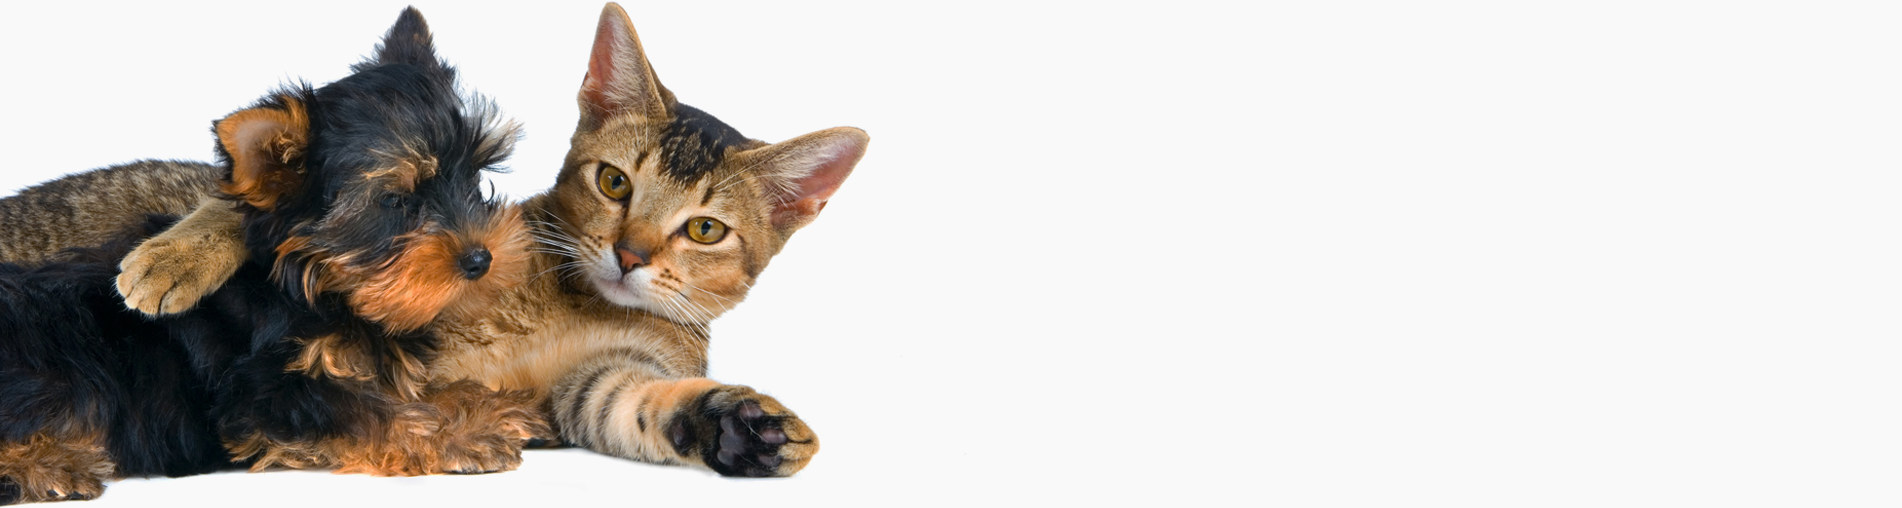
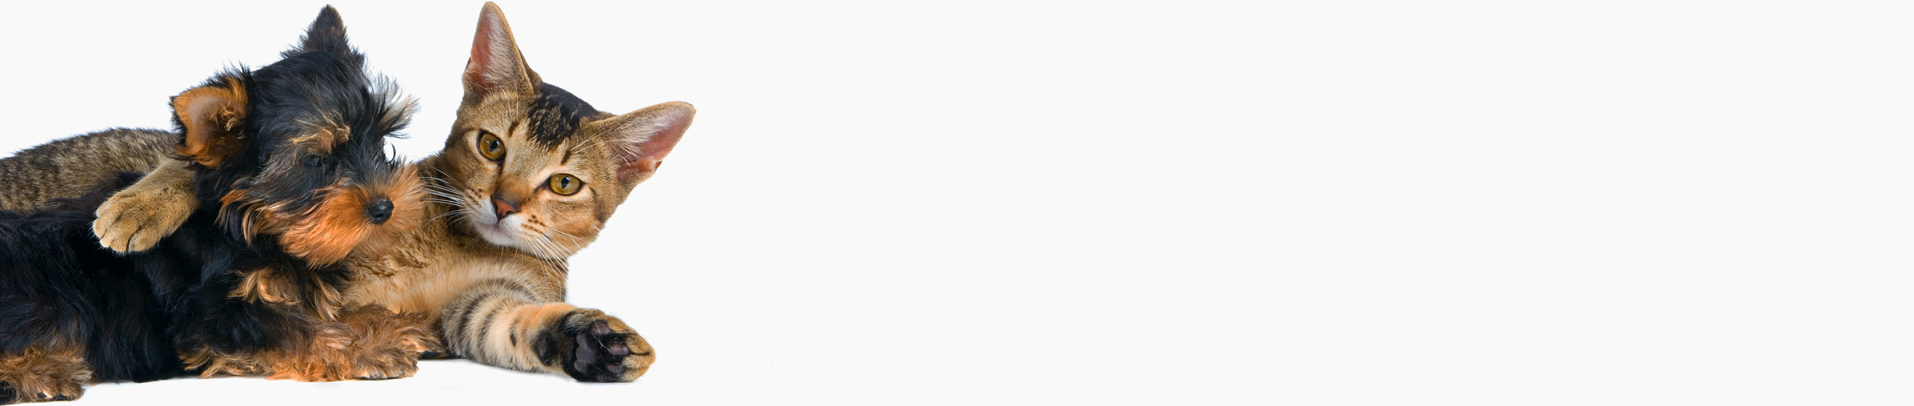
entrega final 30/03

Changed region(s): [[0.0, 0.0, 0.4653, 1.0]]

diff --git a/index.html b/index.html
@@ -105,34 +105,36 @@
     </div>
     
     <footer>
-      <div>
-        <h3>Redes sociales</h3>
-            <ul>
-                <li>
-                  <a href="https://api.whatsapp.com/send?phone=+1167313204&text=Hola%20%F0%9F%91%8B!%20Te%20estas%20comunicando%20con%20Pet%20Shop%20FRANCO%F0%9F%90%95.%20En%20que%20podemos%20ayudarte?"><img src="/img/wsp.png" alt="wsp"></a>
-                </li>
-                <li>
-                    <a href="https://www.instagram.com/pet_shop_franco/?hl=es"><img src="/img/inst.png" alt="inst"></a>
+     
+        <div>
+          <h3>Redes sociales</h3>
+              <ul>
+                  <li>
+                    <a href="https://api.whatsapp.com/send?phone=+1167313204&text=Hola%20%F0%9F%91%8B!%20Te%20estas%20comunicando%20con%20Pet%20Shop%20FRANCO%F0%9F%90%95.%20En%20que%20podemos%20ayudarte?"><img src="/img/wsp.png" alt="wsp"></a>
                   </li>
-                  <li>	
-                    <a href="https://www.facebook.com/Petshop-franco-101898965339682"><img src="/img/fb.png" alt="fb"></a>
-                </li>
-            </ul>
-        </div>    
-                <div>
-                    <h3>Contacto</h3>
-                    <ul>
-                      <li>
-                        <a href="mailto:franco-petshop@gmail.com">franco-petshop@gmail.com</a>
-                      </li>
-                      <li>1121903779</li>
-                      <li>Rio de janeiro 300</a></li>
-                  </ul>
+                  <li>
+                      <a href="https://www.instagram.com/pet_shop_franco/?hl=es"><img src="/img/inst.png" alt="inst"></a>
+                    </li>
+                    <li>	
+                      <a href="https://www.facebook.com/Petshop-franco-101898965339682"><img src="/img/fb.png" alt="fb"></a>
+                  </li>
+              </ul>
+          </div>    
+                  <div>
+                      <h3>Contacto</h3>
+                      <ul>
+                        <li>
+                          <a href="mailto:franco-petshop@gmail.com">franco-petshop@gmail.com</a>
+                        </li>
+                        <li>Telefono :1121903779</li>
+                        <li>Direccion: Rio de janeiro 300 (Caballito)</a></li>
+                    </ul>
+                  </div>
+                  <div>
+                    <img src="/img/FRANCOlogo.png">
+                    <p>&copy;Derechos Reservados2021</p>
                 </div>
-                <div>
-                  <img src="/img/FRANCOlogo.png">
-                  <p>&copy;Derechos Reservados2021</p>
-              </div>
+     
                 
     </footer>
    

diff --git a/css/pet-shop.css b/css/pet-shop.css
@@ -83,7 +83,6 @@ nav{
 footer{
     display: flex;
     justify-content: space-around;
-    align-items: center;
     background-color: black;
     color:white ;
     padding: 20px;
@@ -94,8 +93,10 @@ footer img{
     height:40px;
 }
 
+
+
 .main-contactenos{
-    height: 60vh;
+    height: 35rem;
     display: flex;
     justify-content: space-around;
     align-items: center;
@@ -131,8 +132,9 @@ footer img{
     justify-content: center;
     align-items:center;
     padding: 60px;
-    background-image: url(/img/perros-schnauzer-1.jpg);
+    background-image: url(/img/contactenos4.jpg);
     background-position: center;
+    background-repeat: no-repeat;
     height:14vh;
     color:white;
     font-size: 200px;
@@ -192,7 +194,7 @@ footer img{
     height:14vh;
     background-position: center;
     background-repeat: no-repeat;
-    color: white;
+    color:black;
     display: flex;
     justify-content: center;
     align-items: center;
@@ -202,10 +204,10 @@ footer img{
     display:flex;
     justify-content: center;
     align-items:center;
-    background-image: url(/img/banner-juguete.jpg);
+    background-image: url(/img/perro-gato.png);
     background-position:center;
     height: 14vh;
-    color:white;
+    color:black;
     font-size: 200px;
 
 }

diff --git a/contactenos.html b/contactenos.html
@@ -129,8 +129,8 @@
                   <li>
                     <a href="mailto:franco-petshop@gmail.com">franco-petshop@gmail.com</a>
                   </li>
-                  <li>1121903779</li>
-                  <li>Rio de janeiro 300()</a></li>
+                  <li>Telefono :1121903779</li>
+                  <li>Direccion: Rio de janeiro 300(Caballito)</a></li>
               </ul>
             </div>
             <div>
@@ -138,7 +138,6 @@
               <p>&copy;Derechos Reservados2021</p>
           </div>
             
-</footer>
 </footer>
    
  

diff --git a/juguetes.html b/juguetes.html
@@ -68,8 +68,8 @@
                       <li>
                         <a href="mailto:franco-petshop@gmail.com">franco-petshop@gmail.com</a>
                       </li>
-                      <li>1121903779</li>
-                      <li>Rio de janeiro 300</a></li>
+                      <li>Telefono :1121903779</li>
+                      <li>Direccion: Rio de janeiro 300(Caballito)</a></li>
                   </ul>
                 </div>
                 <div>
@@ -78,7 +78,6 @@
               </div>
                 
     </footer>
-   
         
    
  

diff --git a/carrito.html b/carrito.html
@@ -72,8 +72,8 @@
                       <li>
                         <a href="mailto:franco-petshop@gmail.com">franco-petshop@gmail.com</a>
                       </li>
-                      <li>1121903779</li>
-                      <li>Rio de janeiro 300</a></li>
+                      <li>Telefono :1121903779</li>
+                      <li>Direccion: Rio de janeiro 300(Caballito)</a></li>
                   </ul>
                 </div>
                 <div>

diff --git a/farmacia.html b/farmacia.html
@@ -64,8 +64,8 @@
                       <li>
                         <a href="mailto:franco-petshop@gmail.com">franco-petshop@gmail.com</a>
                       </li>
-                      <li>1121903779</li>
-                      <li>Rio de janeiro 300</a></li>
+                      <li>Telefono :1121903779</li>
+                      <li>Direccion: Rio de janeiro 300(Caballito)</a></li>
                   </ul>
                 </div>
                 <div>

diff --git a/js/pet.js b/js/pet.js
@@ -110,7 +110,7 @@ function miPrograma(data){
           if(form.checkValidity()){
             event.preventDefault()
             Swal.fire({
-                position: 'top-end',
+                
                 icon: 'success',
                 title: 'Tu formulario se envio con Exito',
                 showConfirmButton: false,
